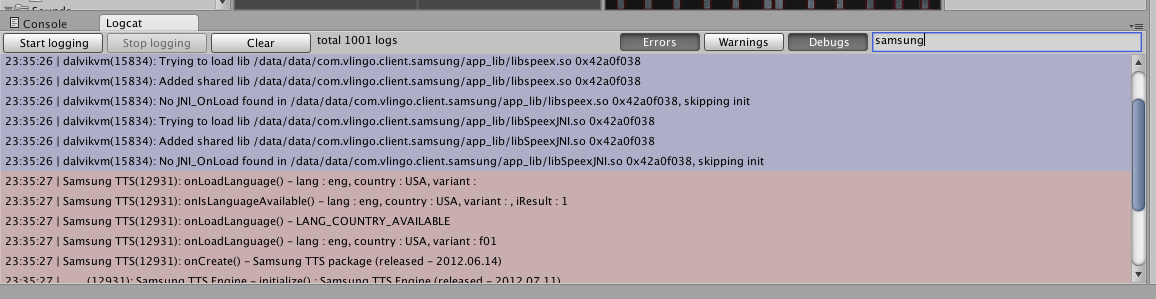
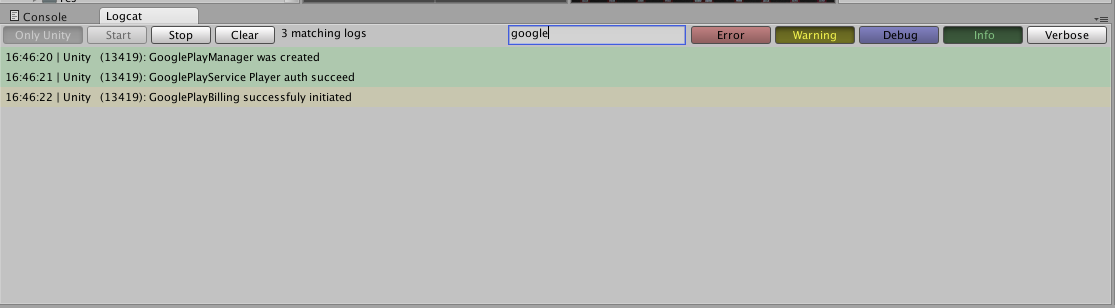
Updated README

diff --git a/README.md b/README.md
@@ -10,8 +10,9 @@ Functions
 ---------------------
 - Start / stop logging
 - Clear logs
-- Filter by log type (error, warning, debug)
-- Filter by string (by contains)
+- "Only Unity" pre-filter.
+- Filter by log type (error, warning, debug, info, verbose)
+- Filter by text (case-insensitive)
 
 How to use
 ---------------------
@@ -26,8 +27,8 @@ Screenshots
 ### Initial window
 ![Initial window](/screenshots/InitialWindow.png)
 
-### Filter by string
-![Filter by string](/screenshots/FilterByString.png)
+### Filter by error type(s)
+![Filter by string](/screenshots/FilterByErrorTypes.png)
 
 ### Filter by log type & string
 ![Filter by log type & string](/screenshots/FilterByErrorTypesAndString.png)
